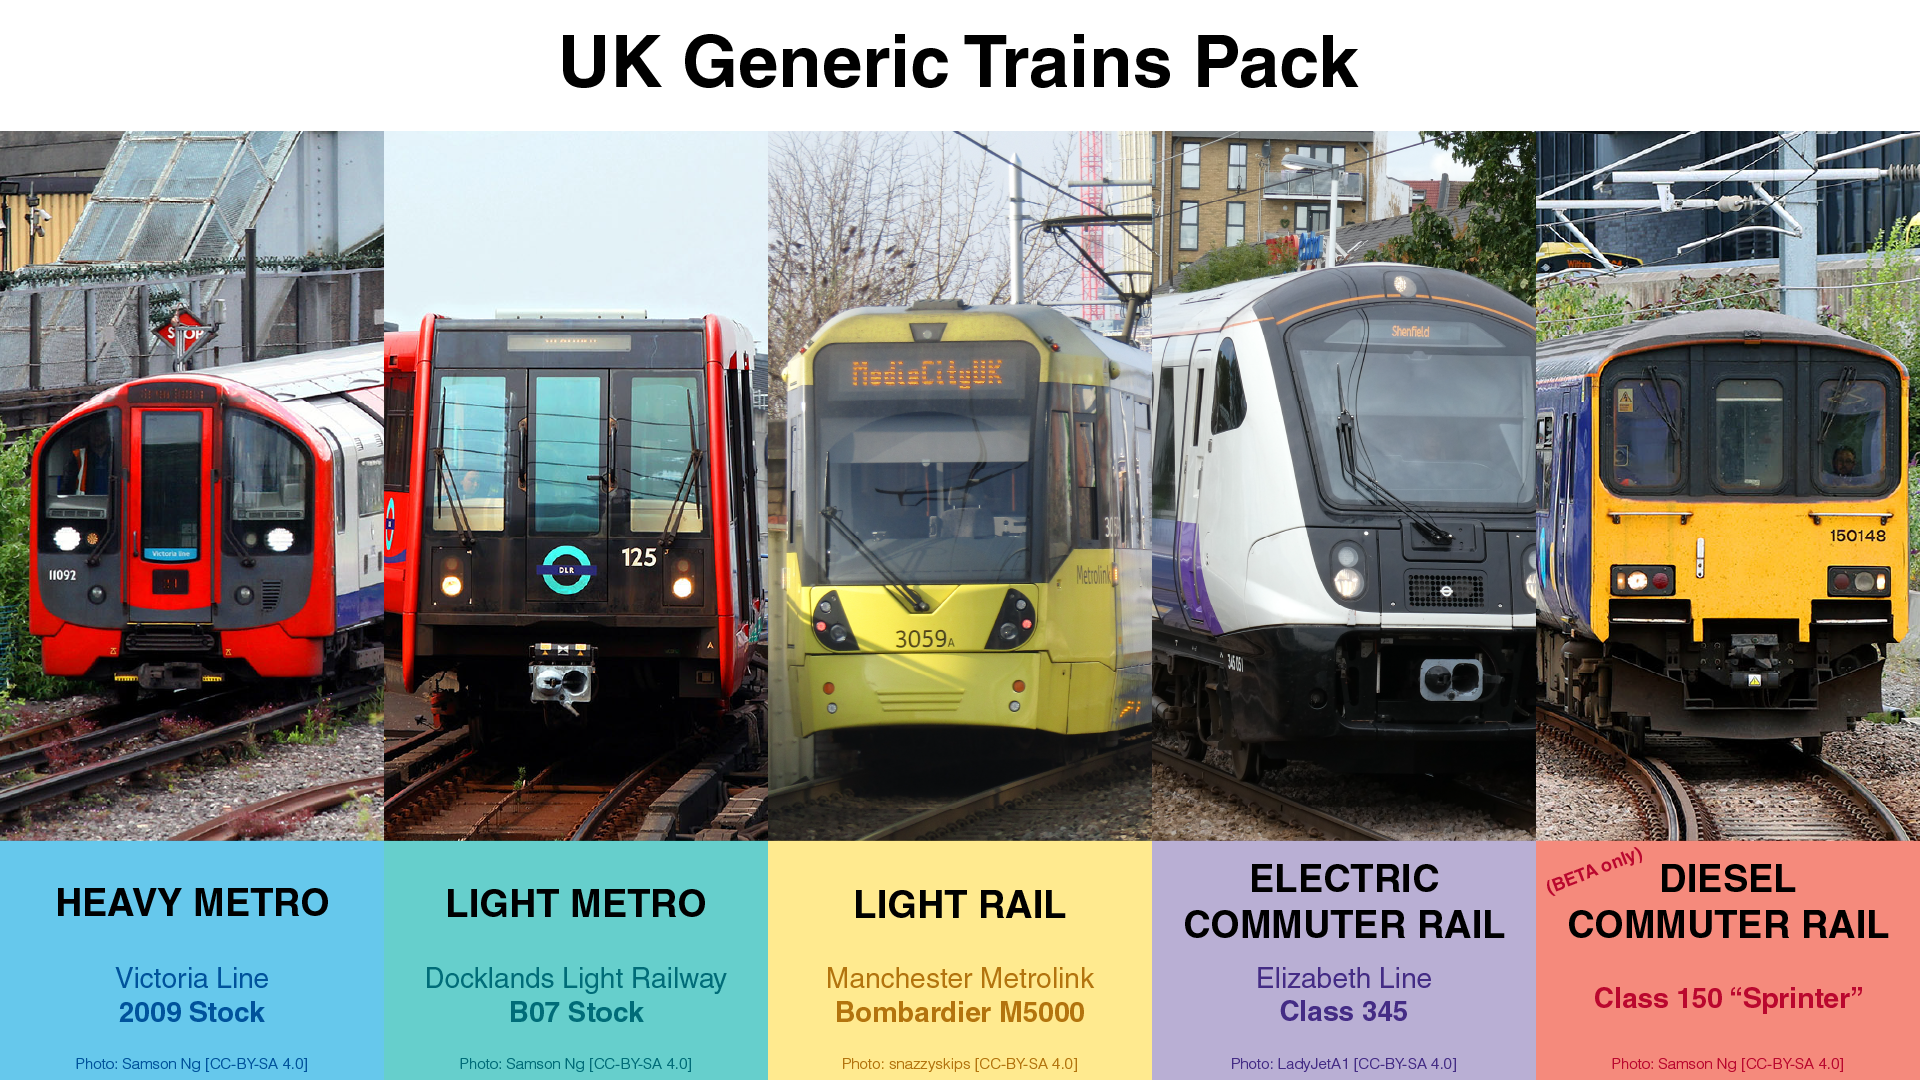
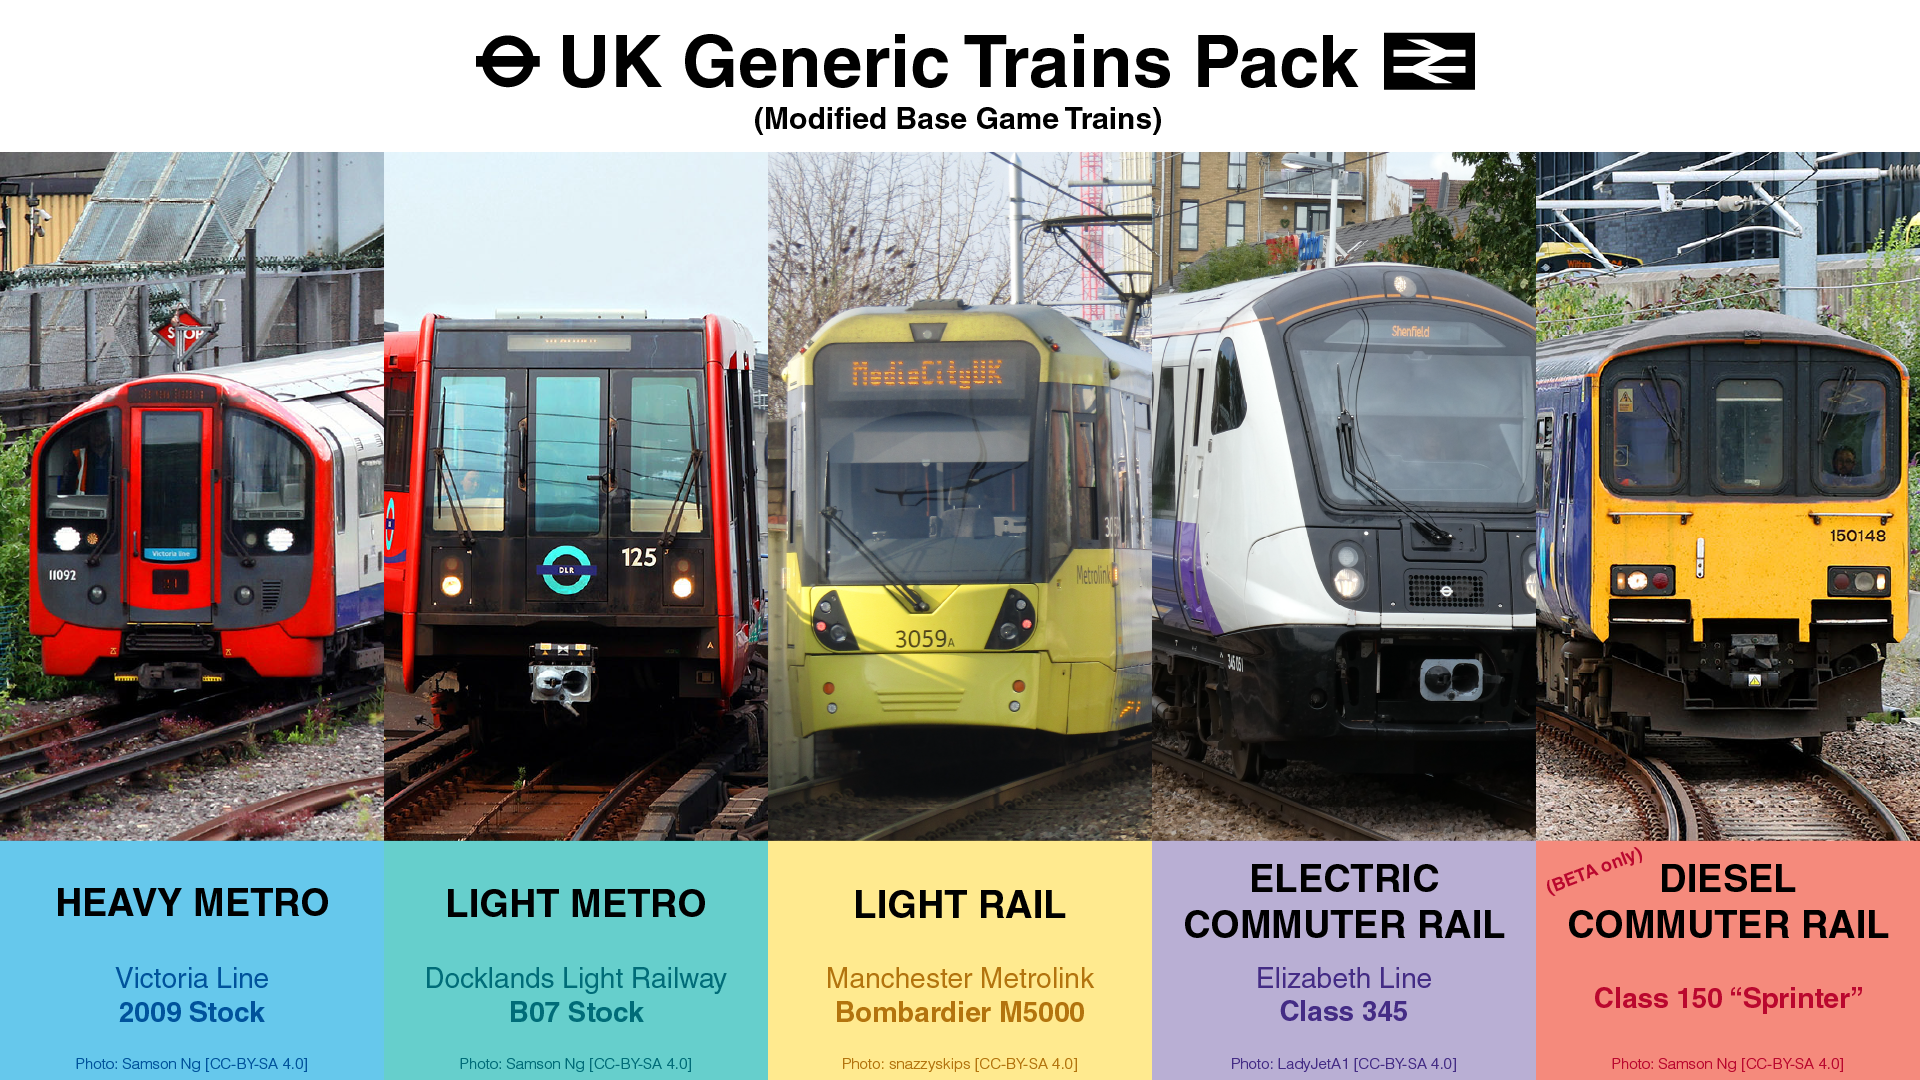
Update Mod cover image

Changed region(s): [[0.0, 0.0917, 1.0, 0.1833], [0.7188, 0.0306, 0.7812, 0.0917], [0.25, 0.0306, 0.2812, 0.0917]]

diff --git a/README.md b/README.md
@@ -196,7 +196,7 @@ Sources:
 
 ### (Electric) Commuter Rail
 
-While notionally based on the Class 345 of the Elizabeth Line (_it's the most highly marketable one after all_), this implementation seeks to generally represent a modern high-intensity commuter train, like you would find across London and the Southeast, which includes the Elizabeth Line but also the London Overground and Thameslink, as well as other operators' suburban commuter system. Maximum performance is pegged against the Elizabeth Line.
+While notionally based on the Class 345 of the Elizabeth Line (_it's the most highly marketable one after all_), this implementation seeks to generally represent a modern high-intensity commuter train, like you would find across London and the Southeast, which includes the Elizabeth Line but also the London Overground and Thameslink, as well as other operators' suburban commuter systems. Maximum performance is pegged against the Elizabeth Line.
 
 The main downside of this implementation of _(Electric) Commuter Rail_ however, is that it is not representative of rail commuter systems outside London and the South, that operate under less intense requirements (much more seating, for instance). _Ideally, there would be an "Metro-like Heavy Rail" type that S-Bahns, the RER, equivalent East Asian systems, and the Elizabeth line slot into. But without that, Commuter Rail will just have to do._
 

diff --git a/description.md b/description.md
@@ -204,7 +204,7 @@ Sources:
 
 ### (Electric) Commuter Rail
 
-While notionally based on the Class 345 of the Elizabeth Line (_it's the most highly marketable one after all_), this implementation seeks to generally represent a modern high-intensity commuter train, like you would find across London and the Southeast, which includes the Elizabeth Line but also the London Overground and Thameslink, as well as other operators' suburban commuter system. Maximum performance is pegged against the Elizabeth Line.
+While notionally based on the Class 345 of the Elizabeth Line (_it's the most highly marketable one after all_), this implementation seeks to generally represent a modern high-intensity commuter train, like you would find across London and the Southeast, which includes the Elizabeth Line but also the London Overground and Thameslink, as well as other operators' suburban commuter systems. Maximum performance is pegged against the Elizabeth Line.
 
 The main downside of this implementation of _(Electric) Commuter Rail_ however, is that it is not representative of rail commuter systems outside London and the South, that operate under less intense requirements (much more seating, for instance). _Ideally, there would be an "Metro-like Heavy Rail" type that S-Bahns, the RER, equivalent East Asian systems, and the Elizabeth line slot into. But without that, Commuter Rail will just have to do._
 
